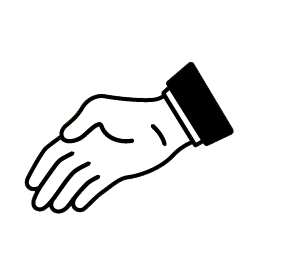
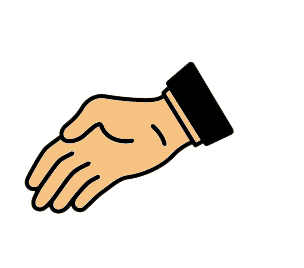
more styling done and 404

Changed region(s): [[0.0888, 0.3284, 0.6513, 0.7761]]

diff --git a/src/context/game.tsx b/src/context/game.tsx
@@ -1,21 +1,11 @@
 import React, { createContext, useState } from "react";
 import axios from "axios";
-//to export
-interface Game {
-  computer: string | null;
-  userWin: string | null;
-  rounds: number;
-  playerChoice: string;
-  playerScore: number;
-  computerScore: number;
-  submitChoice(event: React.ChangeEvent<any>): void;
-  getResults(result: string, score: number): void;
-}
+import { IGame } from "./interface";
 
-const GameContext = createContext<Game>({
+const GameContext = createContext<IGame>({
   computer: "",
   userWin: "",
-  rounds: 3,
+  rounds: 0,
   playerChoice: "",
   playerScore: 0,
   computerScore: 0,
@@ -24,12 +14,12 @@ const GameContext = createContext<Game>({
 });
 
 const GameProvider = ({ children }: any) => {
-  const [computer, setComputer] = useState<Game["computer"]>("");
-  const [userWin, setUserWin] = useState<Game["userWin"]>("");
-  const [rounds, setRounds] = useState<Game["rounds"]>(3);
-  const [playerChoice, setPlayerChoice] = useState<Game["playerChoice"]>("");
-  const [playerScore, setPlayerScore] = useState<Game["playerScore"]>(0);
-  const [computerScore, setComputerScore] = useState<Game["computerScore"]>(0);
+  const [computer, setComputer] = useState<IGame["computer"]>("");
+  const [userWin, setUserWin] = useState<IGame["userWin"]>("");
+  const [rounds, setRounds] = useState<IGame["rounds"]>(0);
+  const [playerChoice, setPlayerChoice] = useState<IGame["playerChoice"]>("");
+  const [playerScore, setPlayerScore] = useState<IGame["playerScore"]>(0);
+  const [computerScore, setComputerScore] = useState<IGame["computerScore"]>(0);
 
   function getResults(result: string, score: number) {
     setUserWin(result);
@@ -39,6 +29,7 @@ const GameProvider = ({ children }: any) => {
       setComputerScore((s) => s + score);
     }
   }
+
   const fetchComputer = () => {
     axios.get("http://localhost:5000/").then((res) => {
       setComputer(res.data.data.computer);
@@ -47,7 +38,6 @@ const GameProvider = ({ children }: any) => {
   };
 
   const submitChoice = (event: React.ChangeEvent<any>) => {
-    console.log("choice");
     setPlayerChoice(event.target.dataset.id);
     fetchComputer();
   };

diff --git a/src/components/LeaderBoard.tsx b/src/components/LeaderBoard.tsx
@@ -2,19 +2,17 @@ import { useContext } from "react";
 import { GameContext } from "../context/game";
 
 const LeaderBoard = () => {
-  const {
-    playerScore,
+  const { playerScore, computerScore } = useContext(GameContext);
 
-    computerScore,
-  } = useContext(GameContext);
   return (
     <div className="leaderBoard-container">
       <div>
-        {/* <i className="fas fa-medal"></i>{" "} */}
+        {playerScore > computerScore && <i className="fas fa-medal"></i>}
         <span className="leaderBoard">username</span>
         <div className="leaderBoard-score">{playerScore}</div>
       </div>
       <div>
+        {playerScore < computerScore && <i className="fas fa-medal"></i>}
         <span className="leaderBoard">computer</span>
         <div className="leaderBoard-score">{computerScore}</div>
       </div>

diff --git a/src/App.tsx b/src/App.tsx
@@ -1,6 +1,6 @@
 import React from "react";
 import { BrowserRouter as Router, Routes, Route } from "react-router-dom";
-import { Game, Login, Signup, LandingPage } from "./pages";
+import { Game, Login, Signup, LandingPage, NotFound } from "./pages";
 import { Navbar } from "./components";
 const App = () => {
   return (
@@ -12,6 +12,7 @@ const App = () => {
           <Route path="/game" element={<Game />} />
           <Route path="/login" element={<Login />} />
           <Route path="/signup" element={<Signup />} />
+          <Route path="*" element={<NotFound />} />
         </Routes>
       </div>
     </Router>

diff --git a/src/index.css b/src/index.css
@@ -3,7 +3,7 @@
 
 /* variables */
 :root {
-  --primary: #4f515a;
+  --primary: #210d3b;
   --secondary: #ebebeb;
   --warning: #da0f41;
   --transition: all 0.3s linear;
@@ -137,18 +137,18 @@ nav .links span {
   align-items: center;
   justify-content: center;
   box-shadow: var(--dark-shadow);
+  margin-top: 10rem;
 }
 
 .play-btn {
   padding: 1.5rem;
   font-size: 6rem;
-  background-color: rgba(227, 16, 16);
+  background-color: var(--primary);
   border-radius: 2rem;
   cursor: pointer;
 }
 .play-btn:hover {
   transform: scale(1.1);
-  background-color: rgba(227, 16, 16);
 }
 
 /* game */

diff --git a/src/pages/not-found.tsx b/src/pages/not-found.tsx
@@ -1,0 +1,18 @@
+import { Link } from "react-router-dom";
+
+const NotFound = () => {
+  return (
+    <div>
+      <img src={"/not-found.svg"} alt="not found" />
+      <h3>Ohh! page not found</h3>
+      <p style={{ marginBottom: "1rem" }}>
+        We can't seem to find the page you're looking for
+      </p>
+      <Link to="/" className="btn">
+        back home
+      </Link>
+    </div>
+  );
+};
+
+export default NotFound;

diff --git a/src/components/Play.tsx b/src/components/Play.tsx
@@ -56,7 +56,7 @@ const Play: React.FC<IProps> = ({ anim, setAnim }) => {
       <div>
         <img
           className={classNames.join(" ")}
-          src={playerChoice ? `./${uiPlayerHand}.png` : `./rock.png`}
+          src={playerChoice ? `./${uiPlayerHand}-b.png` : `./rock-b.png`}
         />
         <img
           src={computer ? `./${uiComputerHand}.png` : `./rock.png`}

diff --git a/src/context/interface.ts b/src/context/interface.ts
@@ -1,0 +1,10 @@
+export interface IGame {
+  computer: string | null;
+  userWin: string | null;
+  rounds: number;
+  playerChoice: string;
+  playerScore: number;
+  computerScore: number;
+  submitChoice(event: React.ChangeEvent<any>): void;
+  getResults(result: string, score: number): void;
+}

diff --git a/src/components/Navbar.tsx b/src/components/Navbar.tsx
@@ -3,7 +3,7 @@ const Navbar = () => {
   return (
     <div className="navbar">
       <nav>
-        <h1>Rock Paper Scissors</h1>
+        <h1>ROCK PAPER SCISSORS</h1>
         <div className="links">
           {/* <Link to="/game">Game</Link>
           <span>Hi there username</span> */}

diff --git a/src/pages/index.ts b/src/pages/index.ts
@@ -2,5 +2,6 @@ import Game from "./game";
 import Login from "./login";
 import Signup from "./signup";
 import LandingPage from "./landingPage";
+import NotFound from "./not-found";
 
-export { Game, Signup, Login, LandingPage };
+export { Game, Signup, Login, LandingPage, NotFound };

diff --git a/src/pages/signup.tsx b/src/pages/signup.tsx
@@ -1,5 +1,3 @@
-import { useState } from "react";
-
 export default function SignUp() {
   // const [username, setUsername] = useState("");
   // const [emailAddress, setEmailAddress] = useState("");

diff --git a/src/pages/login.tsx b/src/pages/login.tsx
@@ -1,5 +1,3 @@
-import { useState } from "react";
-
 export default function Login() {
   // const [username, setUsername] = useState("");
   // const [emailAddress, setEmailAddress] = useState("");
